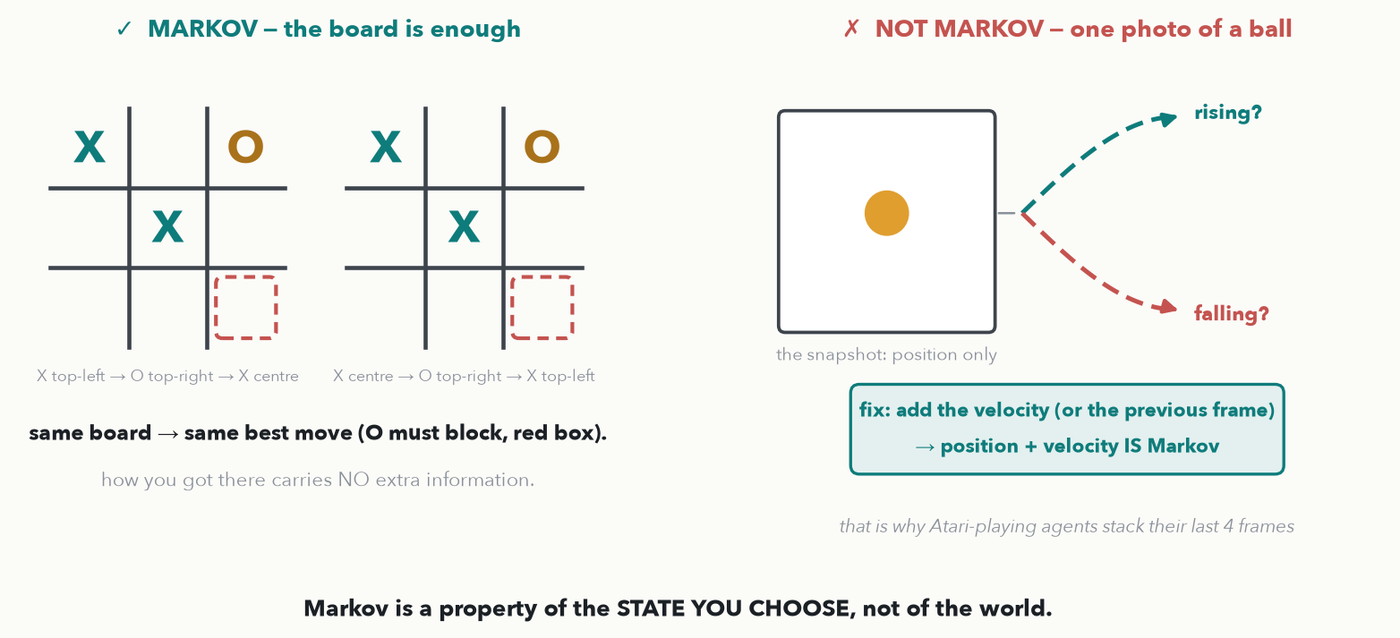
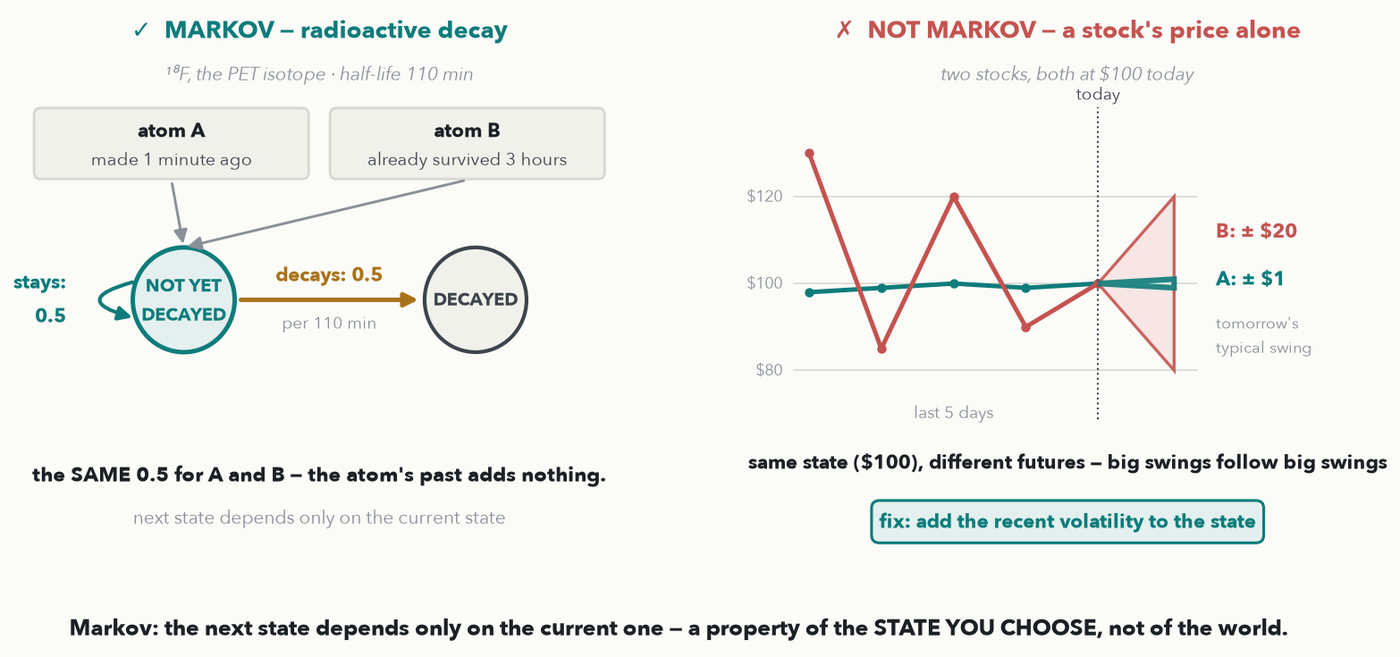
figures: Lecture 13 Markov figure as a transition model — decay vs stock price
fig_markov.png redrawn: radioactive decay of 18F (0.5 per 110-min half-life whatever the
atom's age) as the Markov case; a stock's price alone (two stocks at $100 after a calm and a
wild week, different typical swings tomorrow) as the non-Markov case, fixed by adding
recent volatility to the state.

diff --git a/tools/make_slide_figures.py b/tools/make_slide_figures.py
@@ -7009,67 +7009,92 @@ def rl_anatomy(name="fig_rl_anatomy.png"):
 
 
 def markov_property(name="fig_markov.png"):
-    """THE requirement RL is built on, stated correctly: MARKOV is a property of
-    the STATE YOU HAND THE AGENT, not of the world (instructor, 2026-10-05:
-    replace the corridor with plainer examples).  Left, the clean good case -- a
-    tic-tac-toe BOARD: reach the same board by two different move orders and the
-    best next move is identical, so the board is enough.  Right, the clean
-    failure -- ONE photo of a ball in flight: from position alone you cannot tell
-    rising from falling, so the snapshot is not Markov; add the velocity (or the
-    previous frame) and it is -- which is why Atari-playing agents stack their
-    last four frames.  (Not a stock price: under the textbook random-walk model
-    tomorrow depends only on today, i.e. it IS Markov, so it would confuse.)"""
-    fig, (axl, axr) = plt.subplots(1, 2, figsize=(13.2, 5.2),
+    """THE requirement RL is built on, shown as a TRANSITION MODEL (instructor,
+    2026-10-06: the old examples showed no transitions; use physics for Markov
+    and the stock market for non-Markov).  Left: radioactive decay of 18F (the
+    PET isotope, half-life 110 min) -- a two-state chain whose transition
+    probability is 0.5 per half-life whatever the atom's age, so the current
+    state is all you need.  Right: a stock's PRICE alone -- two stocks both at
+    $100 today, one after a calm week, one after a wild week; big swings tend to
+    follow big swings (volatility clustering), so the same price leads to
+    different futures.  Fix: put recent volatility into the state."""
+    fig, (axl, axr) = plt.subplots(1, 2, figsize=(13.2, 5.4),
                                    gridspec_kw={"width_ratios": [1, 1.05]})
-    # ---------------- LEFT: tic-tac-toe, two move orders, one board -----------
-    axl.set_xlim(0, 7.4); axl.set_ylim(-2.1, 4.3); axl.axis("off")
-    axl.text(3.7, 4.05, "✓  MARKOV — the board is enough", ha="center",
+    # ---------------- LEFT: 18F decay as a two-state transition model ---------
+    axl.set_xlim(0, 7.4); axl.set_ylim(-2.2, 4.4); axl.axis("off")
+    axl.text(3.7, 4.1, "✓  MARKOV — radioactive decay", ha="center",
              color=TEAL, fontsize=13, fontweight="bold")
-    marks = {(0, 0): "X", (1, 1): "X", (0, 2): "O"}       # (row, col): row 0 = top
-    orders = ["X top-left → O top-right → X centre",
-              "X centre → O top-right → X top-left"]
-    for k, x0 in enumerate((0.45, 4.05)):
-        c = 0.95
-        for i in range(1, 3):
-            axl.plot([x0 + i * c, x0 + i * c], [0.35, 0.35 + 3 * c], color=INK_SOFT, lw=2.2)
-            axl.plot([x0, x0 + 3 * c], [0.35 + i * c, 0.35 + i * c], color=INK_SOFT, lw=2.2)
-        for (r, col), m in marks.items():
-            axl.text(x0 + (col + 0.5) * c, 0.35 + (2 - r + 0.5) * c, m, ha="center", va="center",
-                     fontsize=24, fontweight="bold", color=TEAL if m == "X" else ROI_INK)
-        # O must block the diagonal at bottom-right -- the same best move on both boards
-        axl.add_patch(FancyBboxPatch((x0 + 2 * c + 0.12, 0.35 + 0.12), c - 0.24, c - 0.24,
-                      boxstyle="round,pad=0.01,rounding_size=0.08", fill=False,
-                      edgecolor=RED, lw=2.0, ls=(0, (3, 2))))
-        axl.text(x0 + 1.5 * c, -0.05, orders[k], ha="center", fontsize=8.8, color=MUTED)
-    axl.text(3.7, -0.75, "same board → same best move (O must block, red box).",
-             ha="center", fontsize=11.5, color=INK, fontweight="bold")
-    axl.text(3.7, -1.3, "how you got there carries NO extra information.", ha="center",
-             fontsize=10.5, color=MUTED)
-    # ---------------- RIGHT: one snapshot of a ball -----------------------------
-    axr.set_xlim(0, 7.8); axr.set_ylim(-2.1, 4.3); axr.axis("off")
-    axr.text(3.9, 4.05, "✗  NOT MARKOV — one photo of a ball", ha="center",
+    axl.text(3.7, 3.6, "¹⁸F, the PET isotope · half-life 110 min", ha="center",
+             color=MUTED, fontsize=10, style="italic")
+    for x0, who, past in ((0.25, "atom A", "made 1 minute ago"),
+                          (3.85, "atom B", "already survived 3 hours")):
+        axl.add_patch(FancyBboxPatch((x0, 2.45), 3.3, 0.8,
+                      boxstyle="round,pad=0.02,rounding_size=0.08",
+                      facecolor="#F1F1EC", edgecolor=HAIRLINE, lw=1.4))
+        axl.text(x0 + 1.65, 3.0, who, ha="center", va="center", color=INK,
+                 fontsize=10.5, fontweight="bold")
+        axl.text(x0 + 1.65, 2.66, past, ha="center", va="center", color=INK_SOFT,
+                 fontsize=9.5)
+        axl.annotate("", xy=(2.05, 1.62), xytext=(x0 + 1.65, 2.42),
+                     arrowprops=dict(arrowstyle="-|>", color=MUTED, lw=1.4))
+    # the two states
+    axl.add_patch(plt.Circle((2.05, 1.0), 0.62, facecolor=TEAL_SOFT, edgecolor=TEAL, lw=2.4))
+    axl.text(2.05, 1.0, "NOT YET\nDECAYED", ha="center", va="center", color=TEAL,
+             fontsize=9.5, fontweight="bold", linespacing=1.2)
+    axl.add_patch(plt.Circle((5.6, 1.0), 0.62, facecolor="#F1F1EC", edgecolor=INK_SOFT, lw=2.0))
+    axl.text(5.6, 1.0, "DECAYED", ha="center", va="center", color=INK_SOFT,
+             fontsize=9.5, fontweight="bold")
+    axl.annotate("", xy=(4.95, 1.0), xytext=(2.7, 1.0),
+                 arrowprops=dict(arrowstyle="-|>", color=ROI_INK, lw=2.4))
+    axl.text(3.82, 1.22, "decays: 0.5", ha="center", color=ROI_INK, fontsize=10.5,
+             fontweight="bold")
+    axl.text(3.82, 0.66, "per 110 min", ha="center", color=MUTED, fontsize=9)
+    axl.annotate("", xy=(1.47, 0.78), xytext=(1.47, 1.22),
+                 arrowprops=dict(arrowstyle="-|>", color=TEAL, lw=2.0,
+                                 connectionstyle="arc3,rad=1.9"))
+    axl.text(0.62, 1.0, "stays:\n0.5", ha="right", va="center", color=TEAL, fontsize=10.5,
+             fontweight="bold", linespacing=1.15)
+    axl.text(3.7, -1.15, "the SAME 0.5 for A and B — the atom's past adds nothing.",
+             ha="center", fontsize=11.2, color=INK, fontweight="bold")
+    axl.text(3.7, -1.65, "next state depends only on the current state", ha="center",
+             fontsize=10.2, color=MUTED)
+    # ---------------- RIGHT: a stock's price alone -----------------------------
+    axr.set_xlim(-0.6, 7.8); axr.set_ylim(-2.2, 4.4); axr.axis("off")
+    axr.text(3.6, 4.1, "✗  NOT MARKOV — a stock's price alone", ha="center",
              color=RED, fontsize=13, fontweight="bold")
-    # the photo frame with the ball in it
-    axr.add_patch(FancyBboxPatch((0.4, 0.55), 2.6, 2.6, boxstyle="round,pad=0.02,rounding_size=0.08",
-                  facecolor=WHITE, edgecolor=INK_SOFT, lw=1.8))
-    axr.add_patch(plt.Circle((1.7, 1.95), 0.26, color=AMBER, zorder=4))
-    axr.text(1.7, 0.2, "the snapshot: position only", ha="center", fontsize=9.5, color=MUTED)
-    # two futures from the same position
-    xs = np.linspace(0, 1, 40)
-    axr.plot(3.35 + 1.9 * xs, 1.95 + 1.15 * np.sin(xs * np.pi * 0.5), color=TEAL, lw=2.4, ls=(0, (4, 2)))
-    axr.annotate("", xy=(5.3, 3.12), xytext=(5.15, 3.08), arrowprops=dict(arrowstyle="-|>", color=TEAL, lw=2.2))
-    axr.text(5.45, 3.15, "rising?", fontsize=11, color=TEAL, fontweight="bold", va="center")
-    axr.plot(3.35 + 1.9 * xs, 1.95 - 1.15 * np.sin(xs * np.pi * 0.5), color=RED, lw=2.4, ls=(0, (4, 2)))
-    axr.annotate("", xy=(5.3, 0.78), xytext=(5.15, 0.82), arrowprops=dict(arrowstyle="-|>", color=RED, lw=2.2))
-    axr.text(5.45, 0.75, "falling?", fontsize=11, color=RED, fontweight="bold", va="center")
-    axr.annotate("", xy=(3.3, 1.95), xytext=(3.02, 1.95), arrowprops=dict(arrowstyle="-", color=MUTED, lw=1.2))
-    axr.text(3.9, -0.9, "fix: add the velocity (or the previous frame)\n→ position + velocity IS Markov",
-             ha="center", fontsize=10.5, color=TEAL, fontweight="bold", linespacing=1.35,
-             bbox=dict(boxstyle="round,pad=0.45", fc=TEAL_SOFT, ec=TEAL, lw=1.6))
-    axr.text(3.9, -1.85, "that is why Atari-playing agents stack their last 4 frames", ha="center",
-             fontsize=10, color=MUTED, style="italic")
-    fig.text(0.5, 0.02, "Markov is a property of the STATE YOU CHOOSE, not of the world.",
-             ha="center", fontsize=12.5, color=INK, fontweight="bold")
+    axr.text(3.6, 3.6, "two stocks, both at $100 today", ha="center",
+             color=MUTED, fontsize=10, style="italic")
+    def py(p):                                  # price $70-$140 -> plot height
+        return -0.35 + (p - 70) / 70 * 3.6
+    days = np.arange(5); dx = 0.95
+    calm, wild = [98, 99, 100, 99, 100], [130, 85, 120, 90, 100]
+    axr.plot([0.2 + d * dx for d in days], [py(p) for p in calm], color=TEAL, lw=2.4, marker="o", ms=4)
+    axr.plot([0.2 + d * dx for d in days], [py(p) for p in wild], color=RED, lw=2.4, marker="o", ms=4)
+    for p in (80, 100, 120):
+        axr.text(-0.15, py(p), f"${p}", ha="right", va="center", color=MUTED, fontsize=8.5)
+        axr.plot([0.0, 5.3], [py(p), py(p)], color=HAIRLINE, lw=0.8, zorder=0)
+    axr.text(2.1, py(70) - 0.05, "last 5 days", ha="center", color=MUTED, fontsize=9)
+    xt = 0.2 + 4 * dx
+    axr.axvline(xt, ymin=0.27, ymax=0.83, color=INK_SOFT, lw=1.0, ls=":")
+    axr.text(xt, py(140) + 0.12, "today", ha="center", color=INK_SOFT, fontsize=9)
+    # tomorrow's typical range (illustrative)
+    for lo, hi, col, face, lab, dy in ((99, 101, TEAL, TEAL_SOFT, "A, after a calm week: ± $1", 0.32),
+                                        (80, 120, RED, "#F7E4E3", "B, after a wild week: ± $20", -0.32)):
+        axr.add_patch(plt.Polygon([[xt, py(100)], [xt + 1.0, py(hi)], [xt + 1.0, py(lo)]],
+                      closed=True, facecolor=face, edgecolor=col, alpha=0.9,
+                      lw=3.0 if hi - lo < 5 else 1.6, zorder=5 if hi - lo < 5 else 3))
+    axr.text(5.55, py(112), "B: ± $20", ha="left", va="center", color=RED, fontsize=10.5, fontweight="bold")
+    axr.text(5.55, py(101), "A: ± $1", ha="left", va="center", color=TEAL, fontsize=10.5, fontweight="bold")
+    axr.text(5.55, py(88), "tomorrow's\ntypical swing", ha="left", va="center", color=MUTED,
+             fontsize=8.5, linespacing=1.2)
+    axr.text(3.6, -1.0, "same state ($100), different futures — big swings follow big swings",
+             ha="center", fontsize=10.6, color=INK, fontweight="bold")
+    axr.text(3.6, -1.7, "fix: add the recent volatility to the state", ha="center",
+             fontsize=10.5, color=TEAL, fontweight="bold",
+             bbox=dict(boxstyle="round,pad=0.4", fc=TEAL_SOFT, ec=TEAL, lw=1.5))
+    fig.text(0.5, 0.02, "Markov: the next state depends only on the current one — "
+             "a property of the STATE YOU CHOOSE, not of the world.",
+             ha="center", fontsize=12.2, color=INK, fontweight="bold")
     _save(fig, name)
 
 
